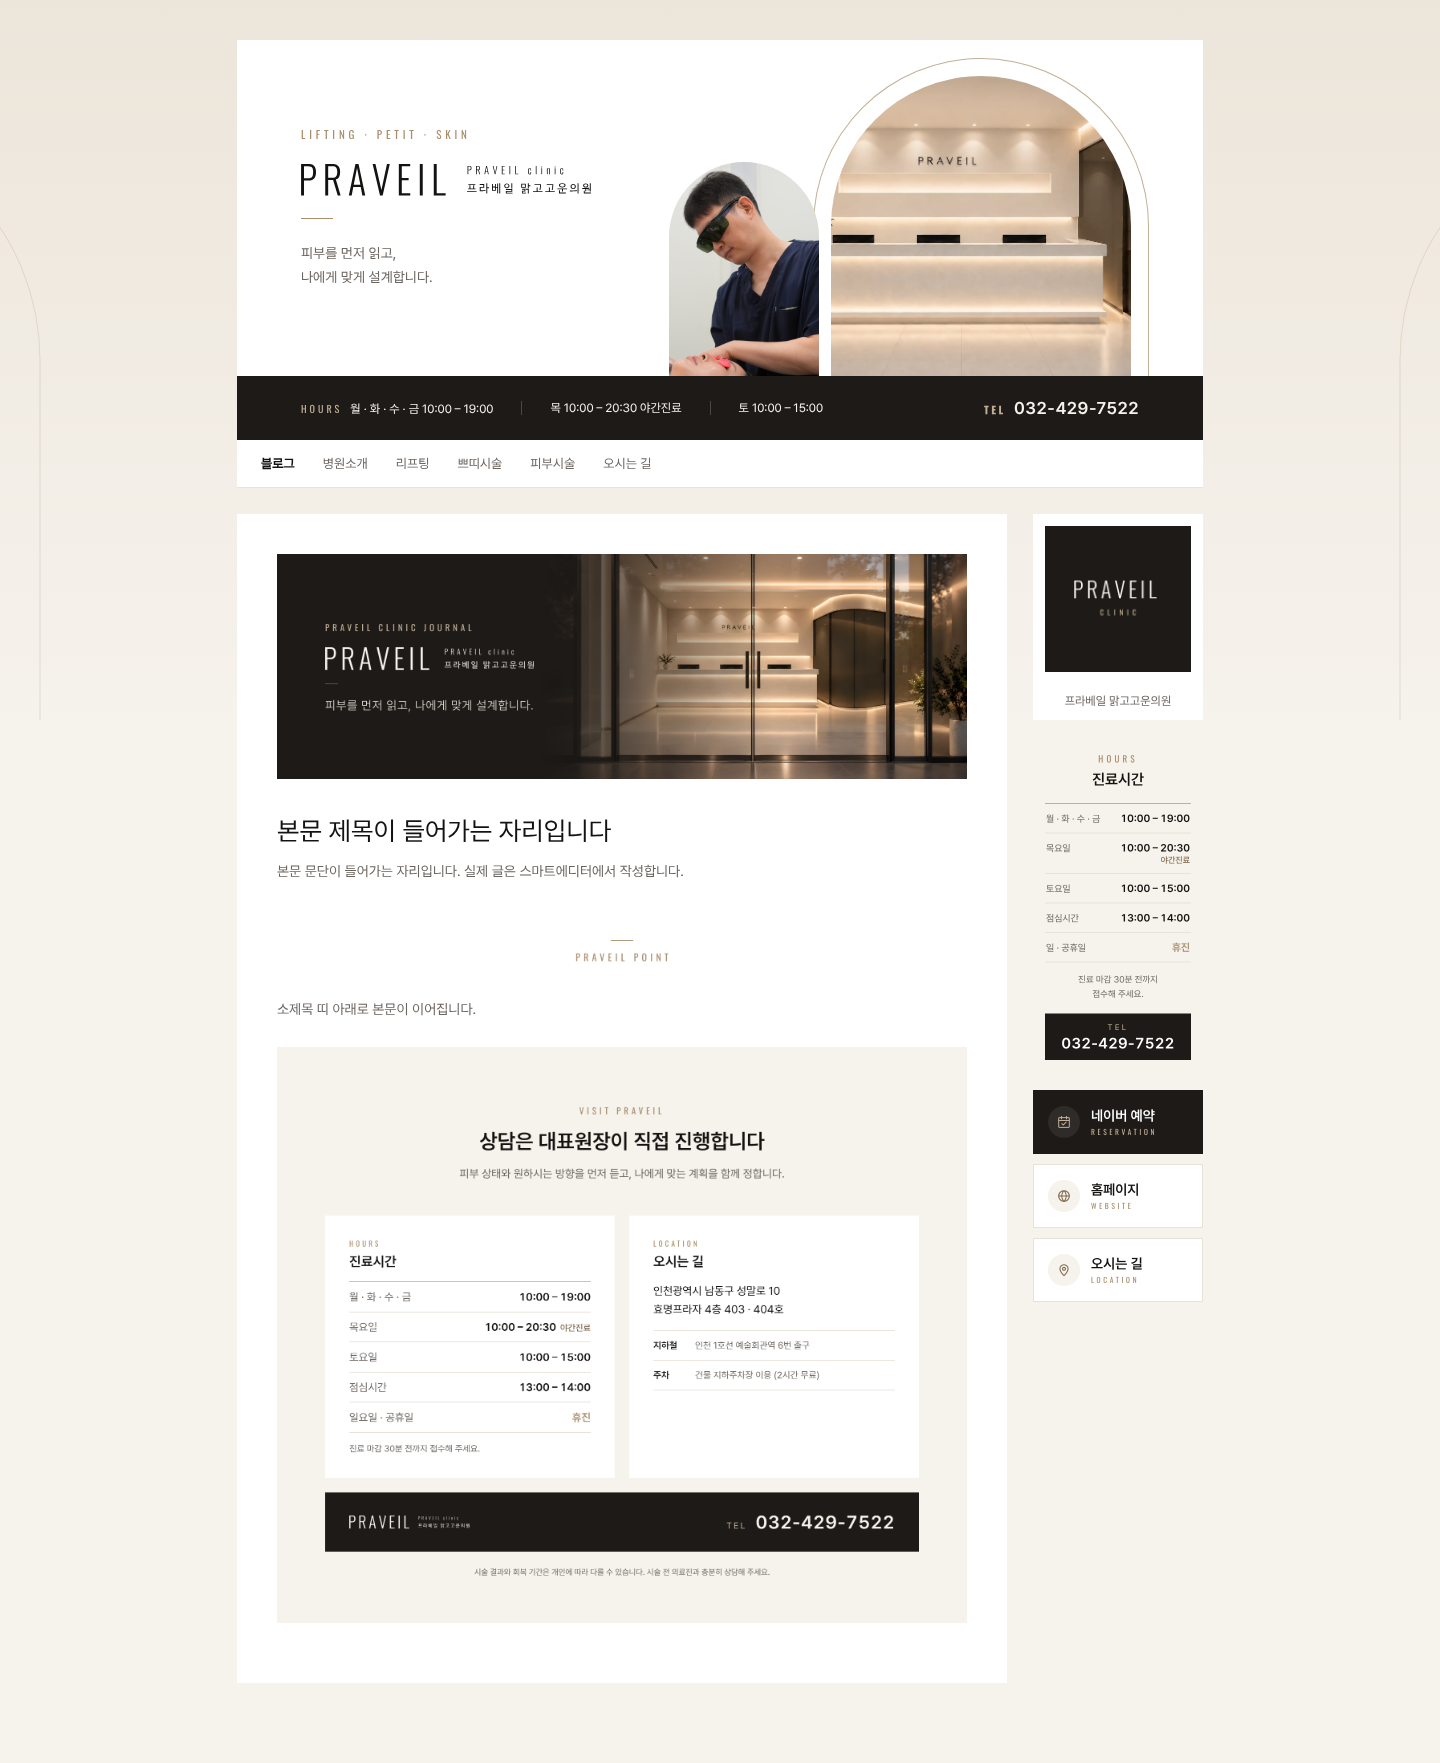
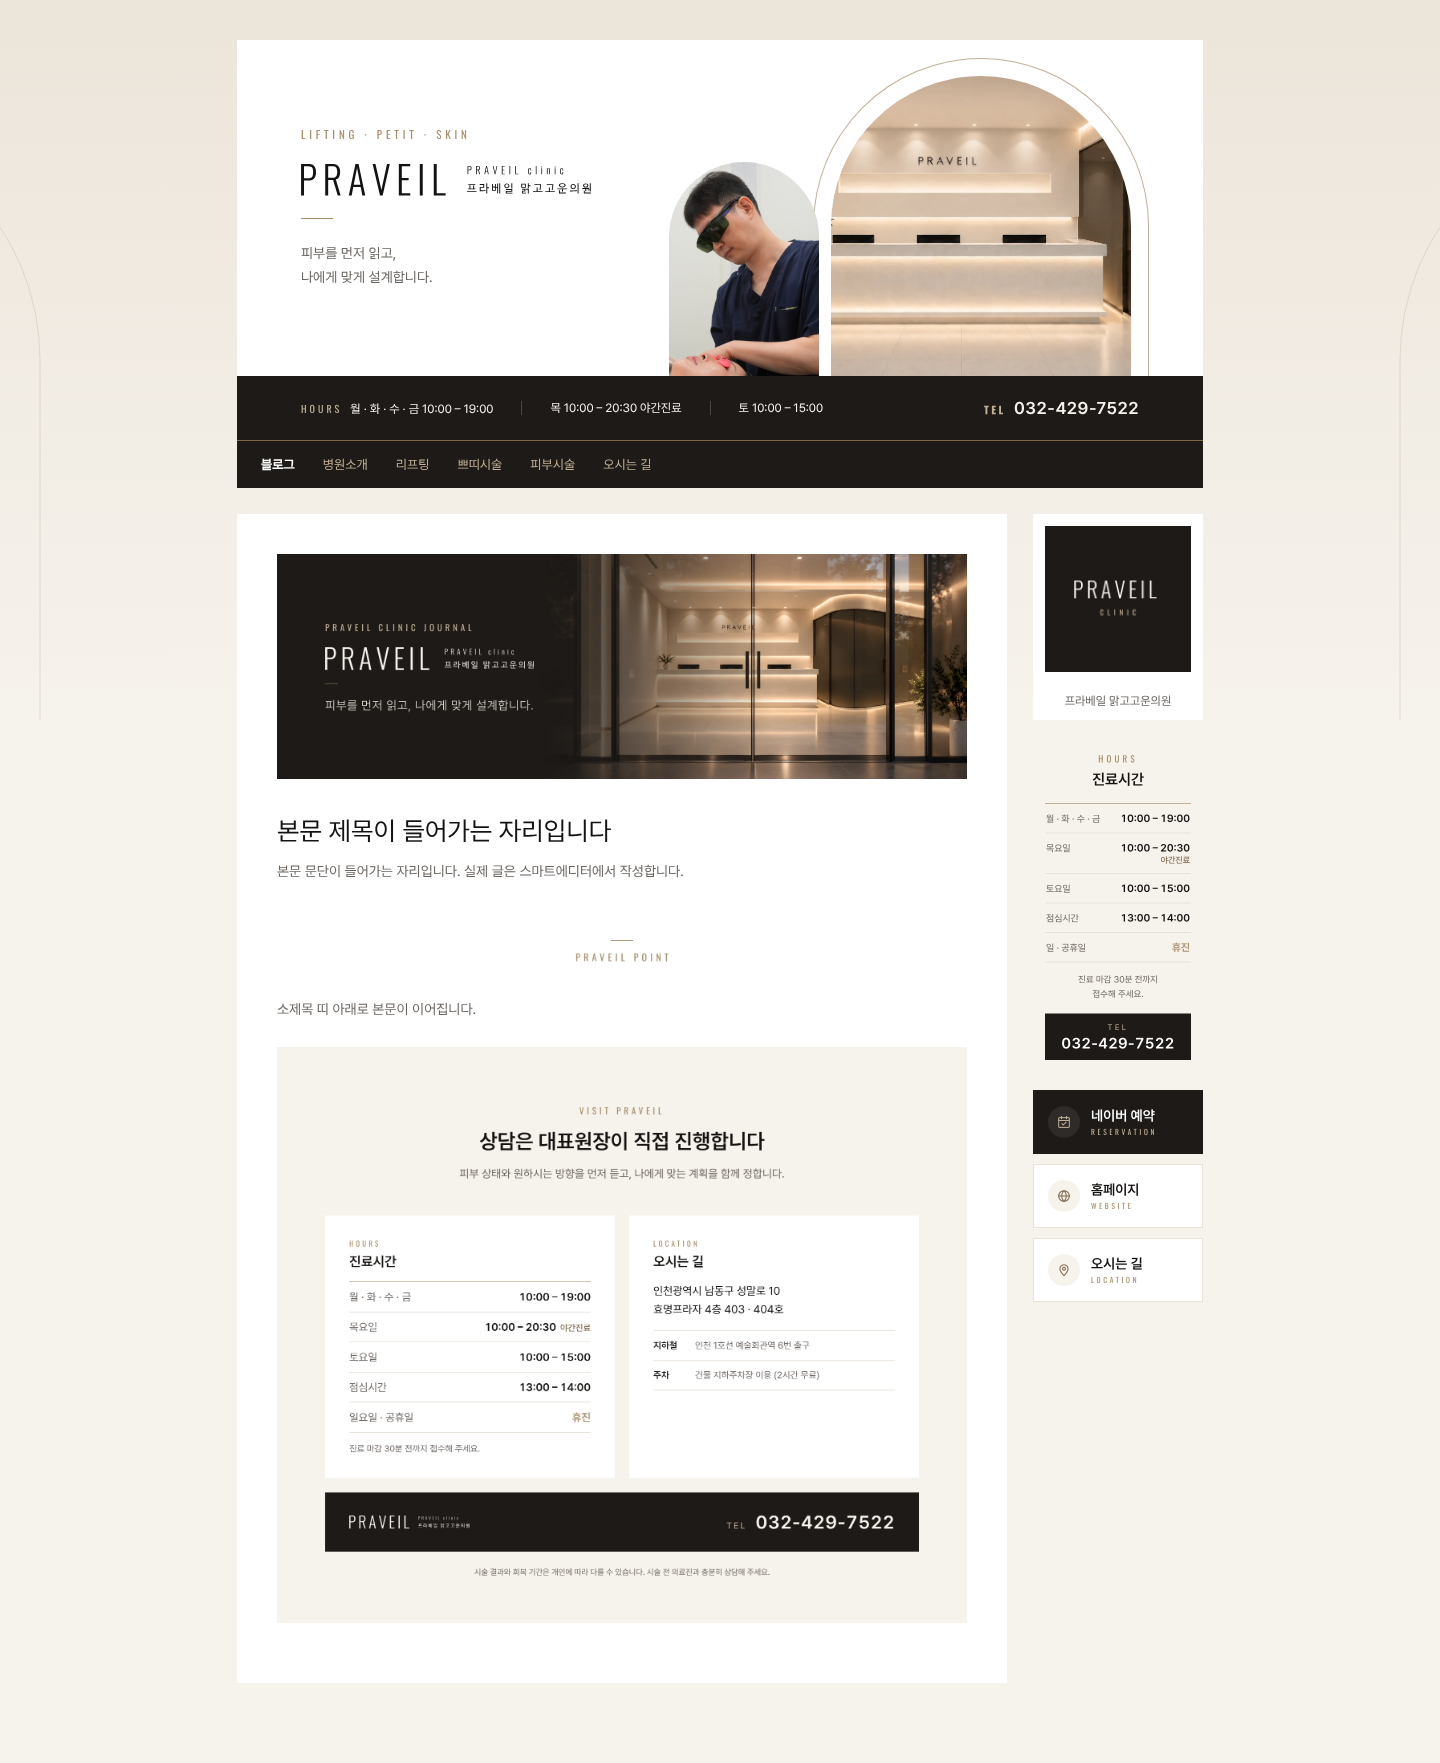
네이버 블로그 메뉴를 짙은 바탕으로 (미리보기 · 리모콘 색 안내)
Claude-Session: https://claude.ai/code/session_01Ld2YJmc6iArSkVBjrjkKUN

Changed region(s): [[0.1562, 0.2496, 0.8438, 0.2808]]

diff --git a/docs/naver-blog-skin/preview.html b/docs/naver-blog-skin/preview.html
@@ -24,13 +24,14 @@
         display: flex;
         gap: 28px;
         padding: 16px 24px;
-        background: #ffffff;
-        border-bottom: 1px solid #e8e2d9;
+        /* 타이틀 아래 짙은 띠와 이어지는 짙은 메뉴 (리모콘 블로그 메뉴 색) */
+        background: #1d1a17;
+        border-top: 1px solid #7d6649;
         font-size: 13px;
-        color: #6b6560;
+        color: #c2b096;
       }
       .menu b {
-        color: #151311;
+        color: #ffffff;
       }
       .cols {
         display: flex;

diff --git a/docs/naver-blog-skin/README.md b/docs/naver-blog-skin/README.md
@@ -24,7 +24,7 @@
 2. **리모콘** (꾸미기 설정 → 세부 디자인 설정)
    - 스킨배경: 직접등록 → `background.png`, 위치 가운데 · 반복 안 함, 바탕색 `#f6f2ec`
    - 타이틀: 블로그 제목 표시 끄기, 영역 높이 400, 직접등록 → `title-a2.png` (고른 시안)
-   - 블로그 메뉴: 바탕 `#ffffff`, 글자 `#6b6560`, 선택한 메뉴 `#151311` (타이틀 아래 짙은 띠와 이어 보이게 하려면 바탕 `#1d1a17`, 글자 `#c2b096`)
+   - 블로그 메뉴: 바탕 `#1d1a17`, 글자 `#c2b096`, 선택한 메뉴 `#ffffff` (타이틀 아래 짙은 띠와 이어지게). 구분선 색을 고를 수 있으면 `#7d6649`
    - 포스트 영역 · 위젯 바탕: `#ffffff`, 테두리 · 구분선 `#e8e2d9`, 강조 글자 `#a88e6a`
 3. **위젯 그림 주소 만들기**: 새 글을 비공개로 쓰고 `widget-*.png` 4장을 올려 저장합니다.
    글에서 그림을 새 탭으로 열어 주소(`https://postfiles.pstatic.net/...`)를 복사합니다.
